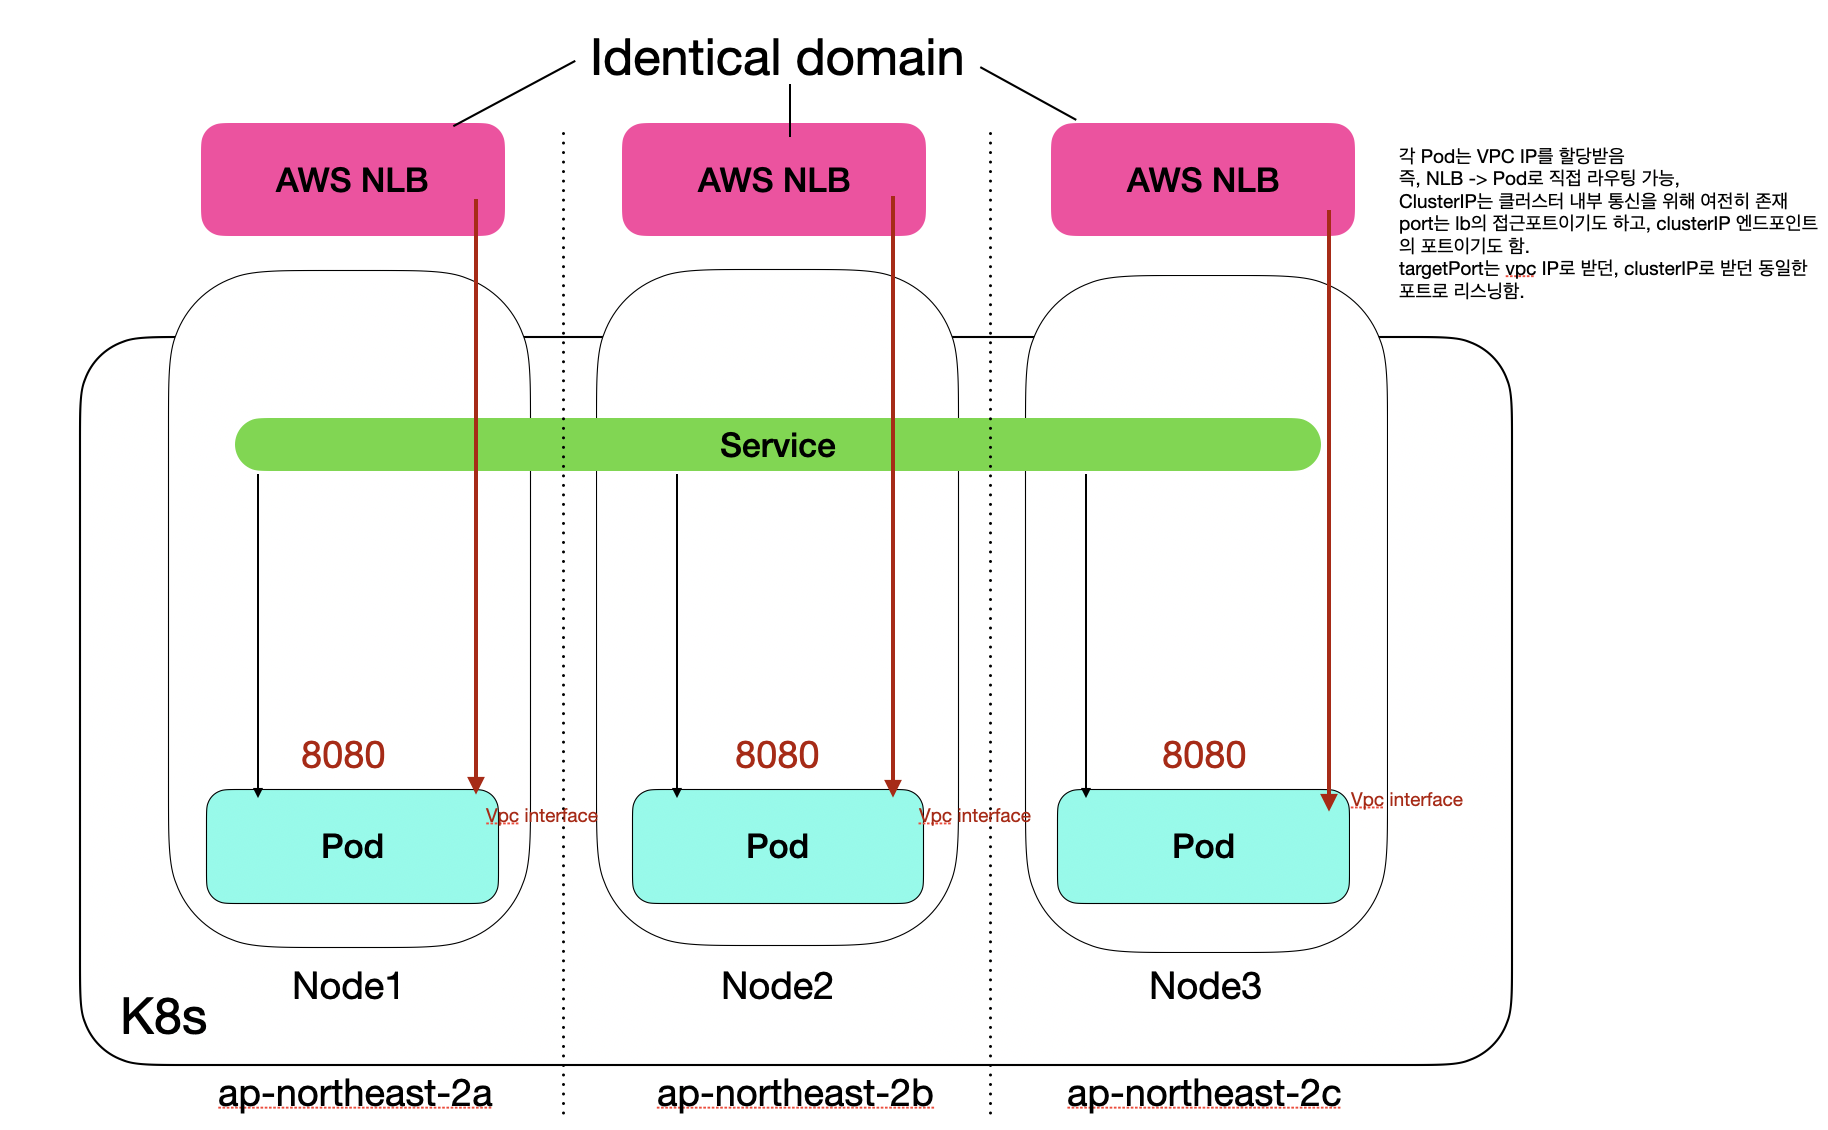
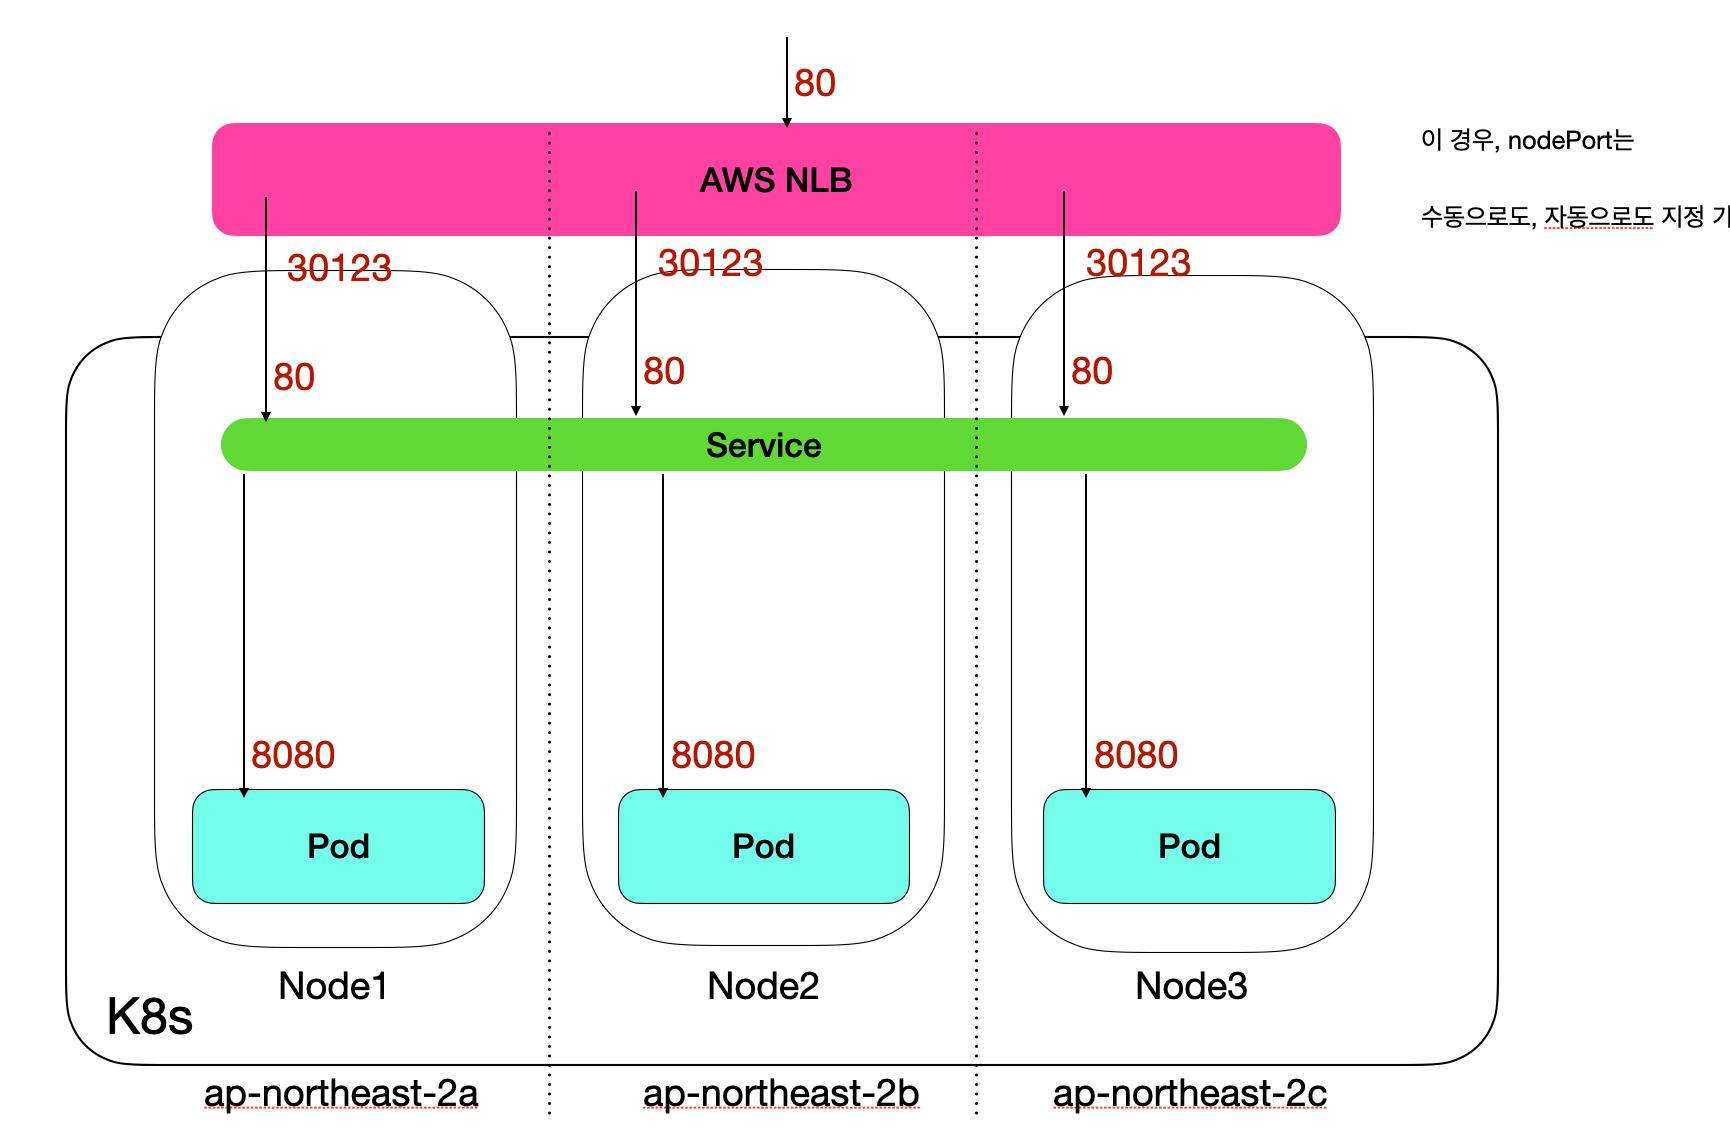
fix: k8s-network: LoadBalancer fixed

diff --git a/content/post/k8s-network/index.ko.md b/content/post/k8s-network/index.ko.md
@@ -137,13 +137,17 @@ spec:
 내부로는 `ClusterIP`를, 외부에는 로드밸런서를 설치한다.   
 사용중인 클라우드 서비스에 따른 로드밸런서(aws의 경우 nlb) 인스턴스가 생성된다.  
 Cloud Controller들 중에서 LB Controller가 존재하며, 이것이 클라우드에서 인스턴스를 생성하도록 하는 것이다.  
-기본적으로 `NodePort`를 추상화한 서비스이다.  
+기본적으로 `NodePort`를 추상화한 서비스이고, 워커 노드 인스턴스 단위로 로드밸런싱된다.  
 ![LB with NodePort](k8s-lb.png)
 
 그러나, 클라우드의 LB의 경우, 클라우드 자체의 CNI를 사용하여, POD ip로 직접 라우팅시킬 수 있다.  
+NAT를 한번 건너뛰어 더 빠르게 통신 가능하다.  
 (일부 클라우드 서비스에서만 지원, aws에서는 AWS VPC CNI가 제공되지만, GKE, AKS는 설정이 더 복잡함, 이외 클라우드 서비스는 매우 제한적)  
-**LB는 클러스터 노드가 있는 각 가용 영역(AZ)에 하나씩 생긴다.**  즉, 위의 그림에서는 하나만 있는 듯 하지만, 사실 노드가 있는 AZ별로 존재하는 것이다.  
-각 LB들은 되도록 같은 AZ내부에 트래픽을 우선전달한다.  
+**LB는 클러스터 노드가 있는 각 가용 영역(AZ)에 하나씩 ENI를 생성한다.**  즉, 위의 그림에서는 하나만 있는 듯 하지만, 사실 노드가 있는 AZ별로 로드밸런싱이 지원된다.  
+- nlb는 VPC종속이기에, 1개 이상의 AZ에 걸쳐야 한다.
+- alb는 2개 이상의 AZ에 걸쳐야 한다.
+
+되도록 같은 AZ내부에 트래픽을 우선전달한다.  
 - 지연을 감소하고, 트래픽 요금이 절감되기 때문이다.  
 
 ![LB with aws vpc cni](k8s-nw-aws-vpc-cni.png)
